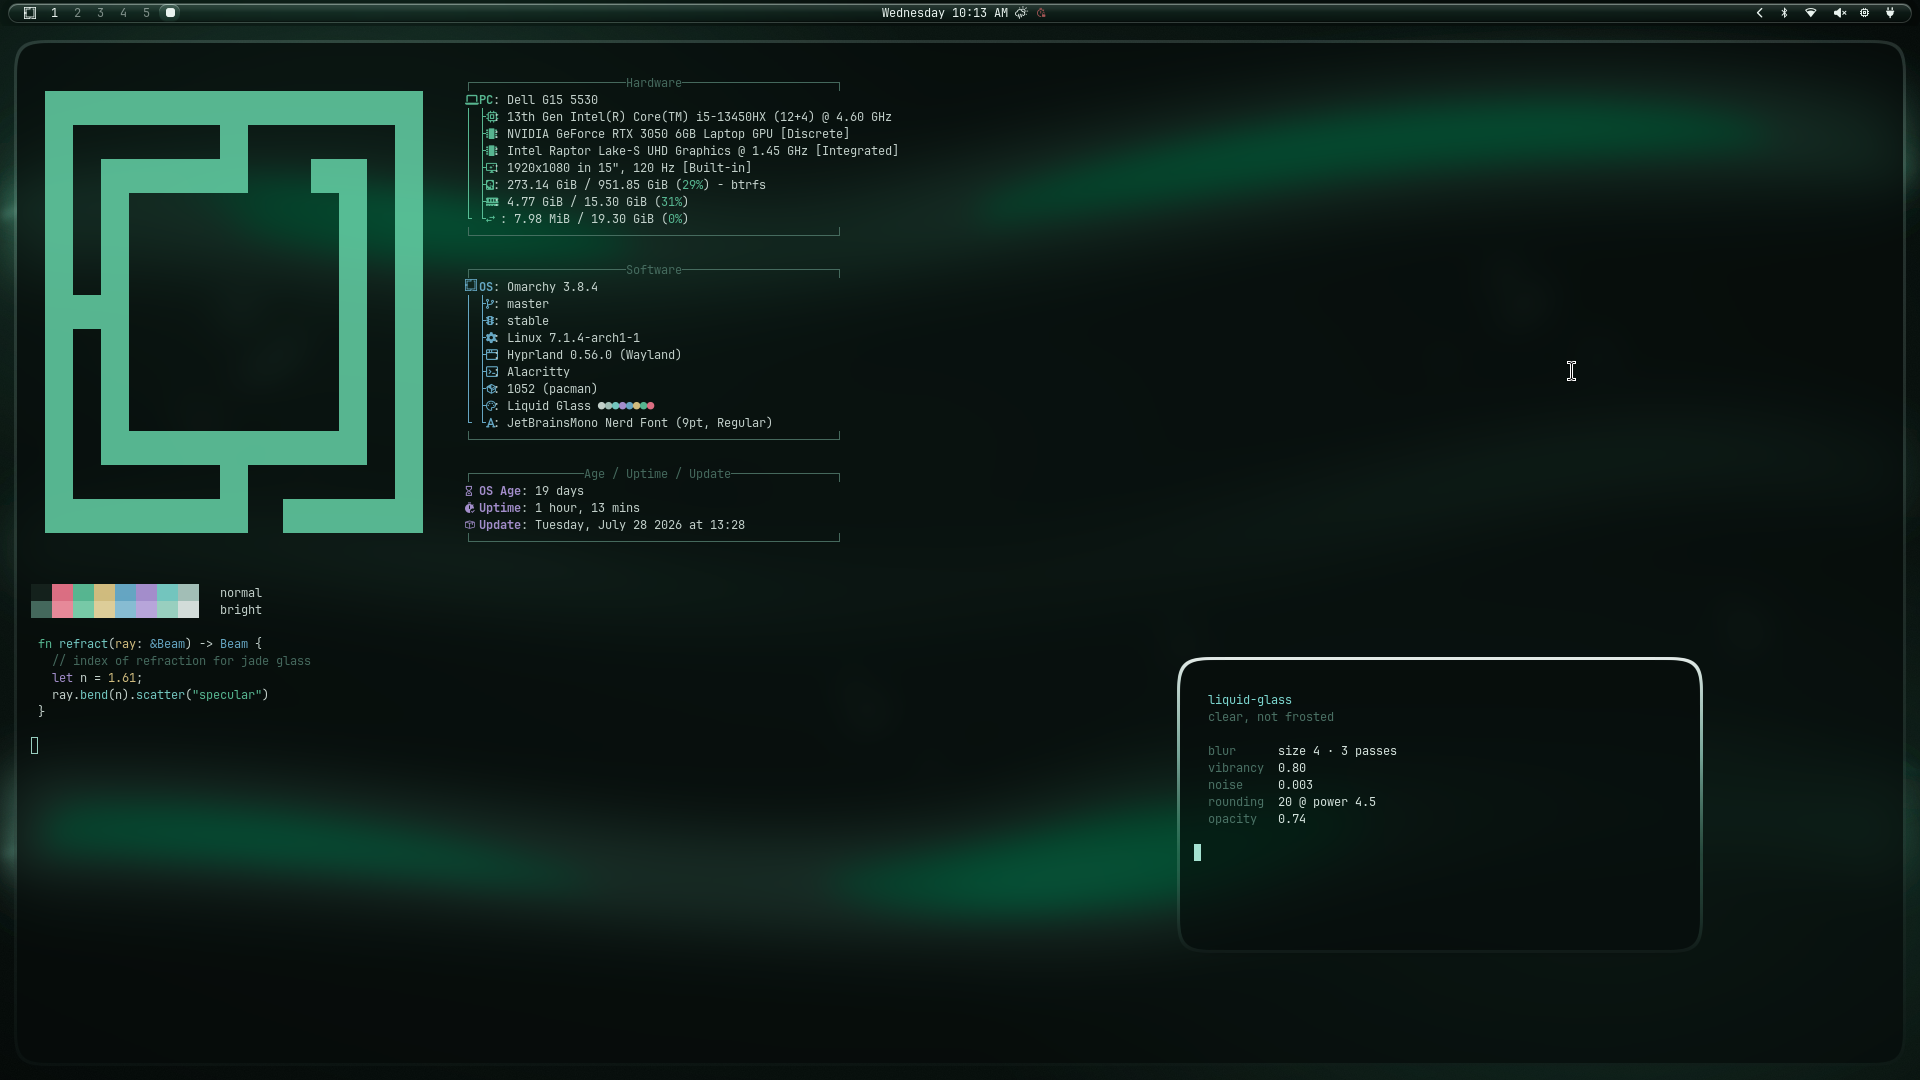
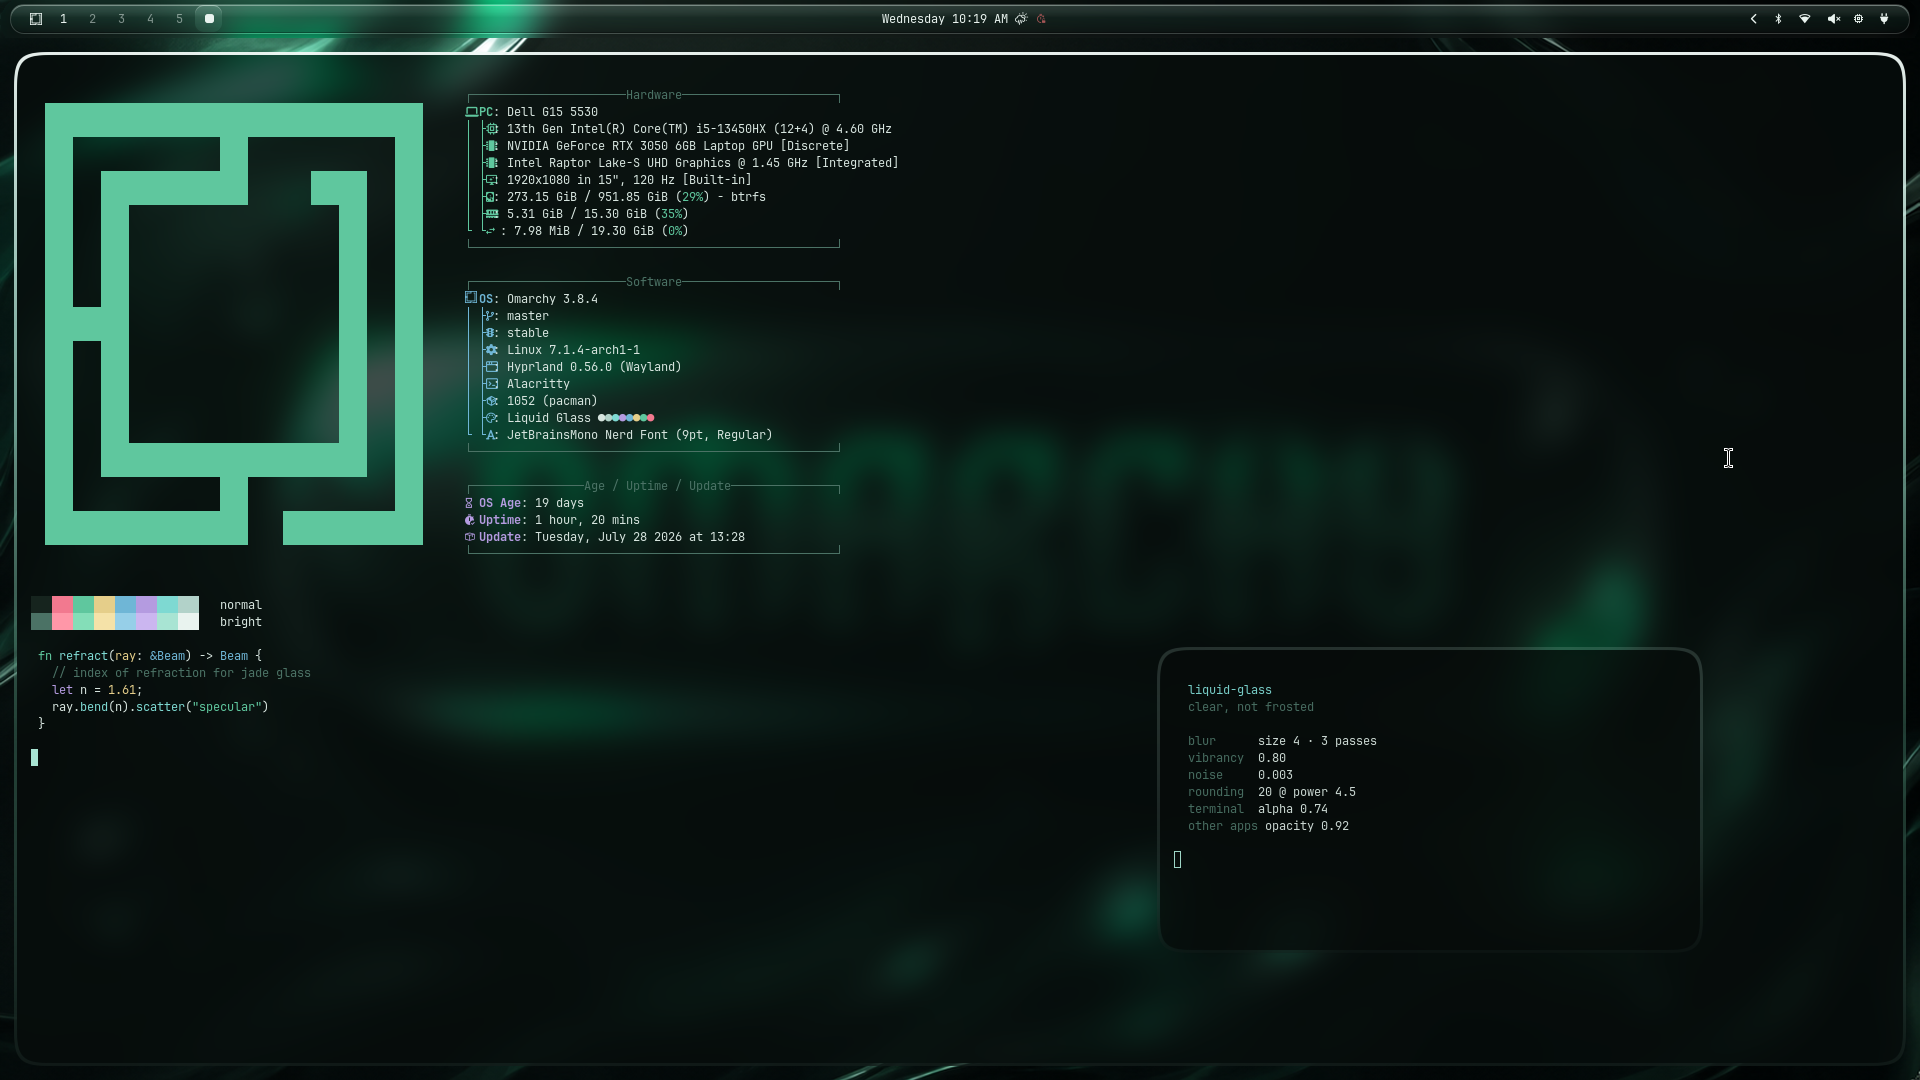
Extend the glass to non-terminal apps; size the bar for it
Two gaps from the last pass.

Normal apps stayed fully opaque. Only terminals can render a translucent
background while keeping glyphs solid — GTK, Electron and browser windows
expose no equivalent knob, Omarchy applies no theme gtk.css, and Chromium has
no transparency setting. The only remaining lever is Hyprland window opacity,
which fades text along with the background, so it is applied mildly
(0.92/0.86) and only to the tags Omarchy leaves on ordinary windows. Matching
on tags rather than window class means media apps stay opaque for free: mpv,
vlc, OBS, Zoom and YouTube tabs already have those tags stripped upstream.
Terminals are pinned back to 1.0 so their own alpha does the work unstacked.

The bar was too thin. At Omarchy's `"height": 26` the floating pill has only
~18px of interior once margins and borders come out. Height lives in
config.jsonc, which no theme file can reach, so the CSS is now sized for 38
and the README states the change as an install step. Workspace buttons get
vertical padding so they fill the taller bar instead of floating as chips.

Preview regenerated against the current material.

diff --git a/waybar.css b/waybar.css
@@ -44,9 +44,13 @@ window#waybar > box {
     rgba(7, 16, 13, 0.36) 100%
   );
 
-  margin: 3px 8px 3px 8px;
+  /* Sized for `"height": 38` in config.jsonc (Omarchy ships 26, which leaves
+     the pill only ~18px of interior once margins and borders are taken out —
+     legible, but cramped). A theme cannot set that value; see the README. */
+  margin: 4px 10px 4px 10px;
+  padding: 0 4px;
   border: 1px solid @glass_edge;
-  border-radius: 10px;
+  border-radius: 14px;
 
   /* The specular edge, the shaded base, then the float. This trio is the
      whole illusion: without the first inset the bar goes flat instantly. */
@@ -72,12 +76,15 @@ window#waybar > box {
  * ends up square. `:not()` takes the specificity of its argument, so tacking a
  * never-matching class on bumps these to (1,1,1) and they survive. */
 #workspaces button:not(.liquid-glass-never) {
-  border-radius: 8px;
+  border-radius: 9px;
+  /* Vertical padding so the pill fills the taller bar instead of floating as a
+     small chip in the middle of it. Overrides the stylesheet's `padding: 0 6px`. */
+  padding: 4px 9px;
   transition: background-color 200ms ease, box-shadow 200ms ease;
 }
 
 #workspaces button.active {
-  border-radius: 8px;
+  border-radius: 9px;
   background-image: linear-gradient(
     to bottom,
     rgba(190, 235, 220, 0.17) 0%,

diff --git a/README.md b/README.md
@@ -16,6 +16,17 @@ direction.
 omarchy theme install https://github.com/Jitheswar/omarchy-liquid-glass-theme.git
 ```
 
+Then set the bar height, which a theme has no way to reach — it lives in
+`~/.config/waybar/config.jsonc`, not in any theme file:
+
+```jsonc
+"height": 38,   // Omarchy ships 26
+```
+
+At 26 the floating pill has only ~18px of interior once margins and borders
+are taken out. It works, but it reads as a thin strip rather than a panel.
+Run `omarchy restart waybar` afterwards.
+
 Or clone it into place and switch manually:
 
 ```bash
@@ -68,10 +79,23 @@ a single overhead light. At 1px it collapses into a plain outline. In the GTK
 surfaces the same idea is an `inset 0 1px 0` highlight plus a vertical
 gradient body; remove that one inset shadow and the bar goes flat instantly.
 
-**Transparency comes from the app, not the compositor.** Each terminal sets its
-own background alpha (`0.74`) while leaving glyphs fully opaque. Lowering
-window opacity in Hyprland instead would fade the text along with the
-background, which is why `active_opacity` stays at `1.0`.
+**Transparency works two different ways, because apps fall into two camps.**
+
+Terminals can render a translucent *background* while keeping glyphs fully
+opaque — that's the good kind of glass, and it's why `active_opacity` stays at
+`1.0` and each terminal config sets its own alpha (`0.74`) instead.
+
+Everything else — GTK, Electron, browsers — draws an opaque background and
+exposes no equivalent knob. Nothing in a theme can change that; Omarchy doesn't
+apply a theme `gtk.css`, and Chromium has no transparency setting. The only
+lever left is Hyprland window opacity, which fades text along with the
+background. So those windows get a mild `opacity 0.92 0.86` — enough that the
+blur behind registers as glass, not so much that a page becomes hard to read.
+Blur still applies underneath because `blur:ignore_opacity` is on.
+
+Media apps are excluded: Omarchy's own rules strip the opacity tags from mpv,
+vlc, OBS, Zoom and YouTube tabs, and this theme matches on those tags rather
+than on window class, so video stays fully opaque for free.
 
 **Corners are squircles.** `rounding = 20` (Hyprland's ceiling) at
 `rounding_power = 4.5` gives continuous curvature rather than a circular arc
@@ -119,9 +143,13 @@ decoration:blur:size  = 8       # from 4
 decoration:blur:noise = 0.02    # from 0.003 — grain is what reads as "frosted"
 ```
 
-Clearer or more solid panes: `opacity` in `alacritty.toml`,
+Clearer or more solid *terminals*: `opacity` in `alacritty.toml`,
 `background-opacity` in `ghostty.conf`, `background_opacity` in `kitty.conf`,
 `alpha` in `foot.ini`. Below about `0.65` text starts to fight the wallpaper.
+
+Clearer or more solid *everything else* — the three `windowrule = opacity`
+lines at the bottom of `hyprland.conf`. Toward `1.0` if text looks too soft,
+toward `0.85` for more glass.
 
 ## Wallpapers
 
